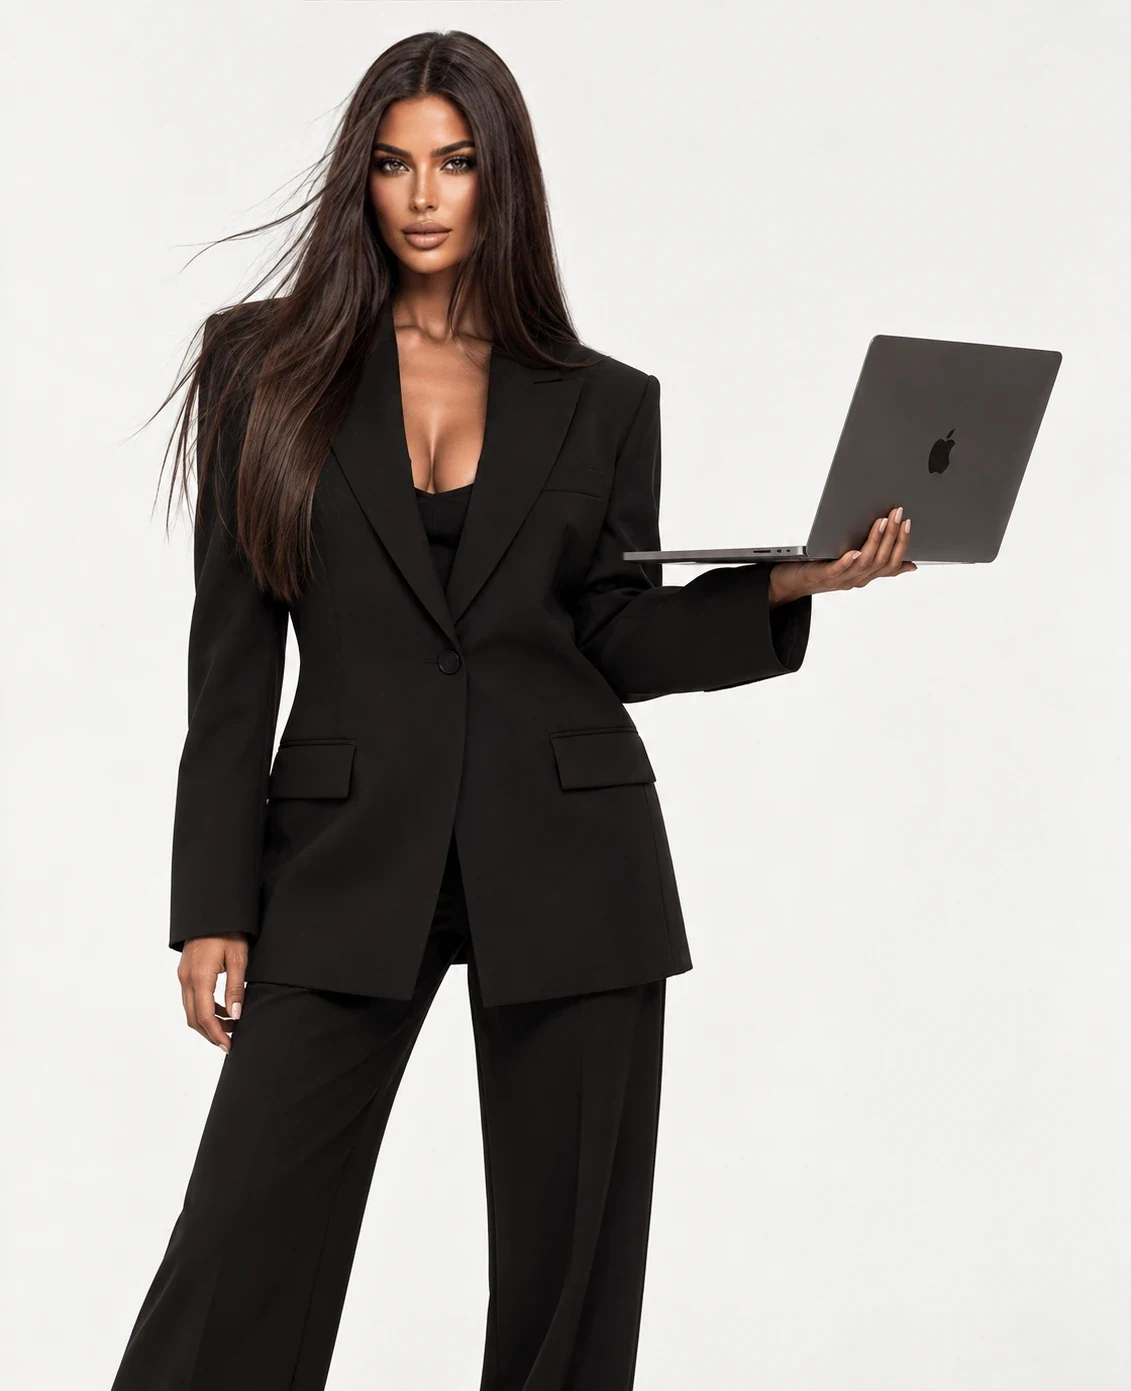
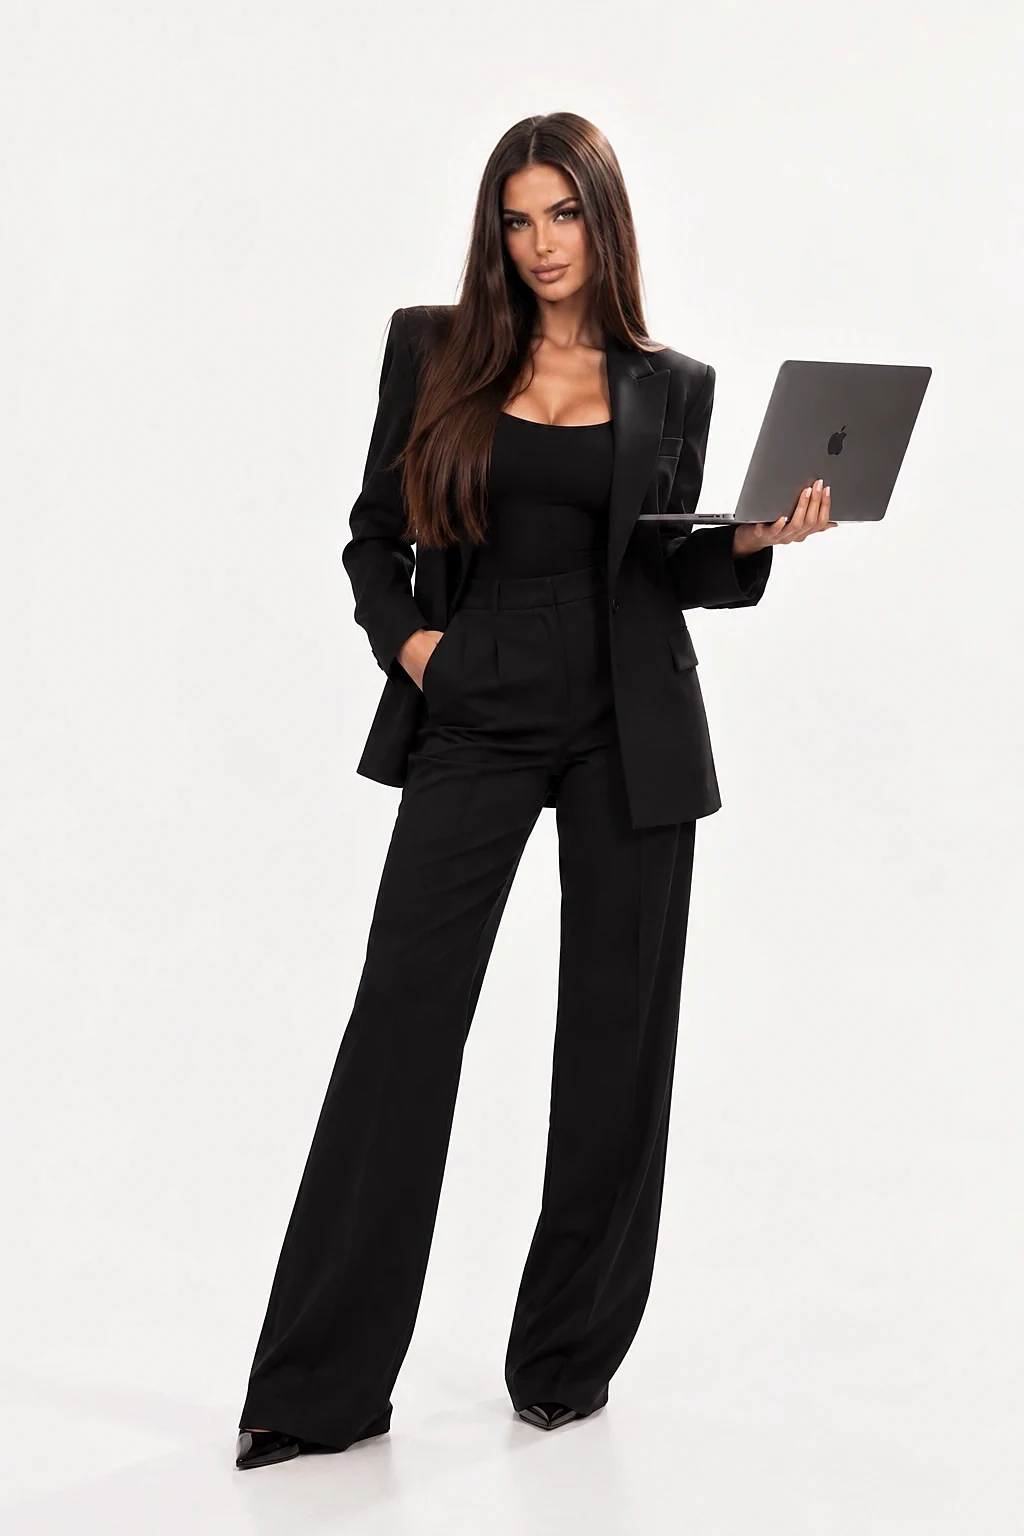
New photos

diff --git a/index.html b/index.html
@@ -93,7 +93,7 @@
   .hero-foot p { margin: 0; max-width: 36ch; font-size: 16px; color: var(--graphite); }
   .hero-foot nav { display: flex; gap: 28px; }
   .media { margin-top: clamp(64px, 8vw, 100px); height: clamp(420px, 78vh, 820px); position: relative; overflow: hidden; background: var(--ink); clip-path: inset(0 var(--inset, 6%) round 4px); will-change: clip-path; }
-  .media img { position: absolute; inset: -8% 0; width: 100%; height: 116%; object-fit: cover; object-position: 50% 22%; transform: translateY(var(--py, 0px)) scale(var(--ps, 1.08)); will-change: transform; }
+  .media img { position: absolute; inset: -8% 0; width: 100%; height: 116%; object-fit: cover; object-position: 50% 6%; transform: translateY(var(--py, 0px)) scale(var(--ps, 1.08)); will-change: transform; }
   .media figcaption { position: absolute; left: var(--gutter); bottom: 20px; color: var(--paper); font-size: 12px; letter-spacing: .06em; text-transform: uppercase; opacity: .8; }
   .facts { display: grid; grid-template-columns: repeat(3, minmax(0, 1fr)); gap: 10px; padding-block: clamp(64px, 8vw, 100px) 0; }
   .fact { border-top: 1px solid var(--line); padding-top: 22px; text-align: center; transition: border-color .9s ease; }
@@ -168,20 +168,21 @@
 
   .about-text .intro p { font-size: 17px; line-height: 1.55; text-align: left; }
   .about-more { padding-block: clamp(64px, 8vw, 120px) clamp(100px, 11vw, 160px); }
-  .chapters { display: grid; grid-template-columns: repeat(2, minmax(0, 1fr)); gap: clamp(48px, 6vw, 88px) clamp(32px, 5vw, 80px); border-top: 1px solid var(--line); padding-top: clamp(40px, 5vw, 64px); }
-  .chapter h3 { margin: 0 0 18px; font-family: var(--display); font-weight: 400; font-size: var(--t-sub); line-height: 1.1; letter-spacing: -.02em; }
-  .chapter p { margin: 0 0 1em; max-width: 58ch; color: #2b2b2b; line-height: 1.6; }
-  .chapter.wide { grid-column: 1 / -1; }
-  .chapter.wide > div, .chapter.wide { columns: 2; column-gap: clamp(32px, 5vw, 80px); }
-  .chapter.wide h3 { column-span: all; }
-  .chapter.wide p { break-inside: avoid; }
+  .zig { display: grid; grid-template-columns: minmax(0, 1fr) minmax(0, 1fr); gap: clamp(32px, 6vw, 96px); align-items: center; padding-block: clamp(48px, 6vw, 88px); border-top: 1px solid var(--line); }
+  .zig.left .zig-photo { order: -1; }
+  .zig-photo { margin: 0; border-radius: 4px; overflow: hidden; background: var(--fog); }
+  .zig-photo img { width: 100%; height: auto; max-height: 86vh; object-fit: cover; object-position: 50% 20%; transition: transform 1.2s cubic-bezier(.2,.8,.2,1); }
+  .zig-photo:hover img { transform: scale(1.02); }
+  .zig-text { display: grid; gap: clamp(32px, 4vw, 52px); }
+  .chapter h3 { margin: 0 0 16px; font-family: var(--display); font-weight: 400; font-size: var(--t-sub); line-height: 1.1; letter-spacing: -.02em; }
+  .chapter p { margin: 0 0 .9em; max-width: 52ch; color: #2A2526; line-height: 1.6; text-align: justify; hyphens: auto; }
+  @media (max-width: 860px) {
+    .zig { grid-template-columns: 1fr; }
+    .zig .zig-photo { order: -1; max-width: 520px; }
+  }
   .closing { margin-top: clamp(72px, 9vw, 128px); padding-top: clamp(40px, 5vw, 64px); border-top: 1px solid var(--line); }
   .closing .disp { font-size: var(--t-h); line-height: 1.02; letter-spacing: -.035em; max-width: 22ch; }
   .closing-sub { margin: clamp(24px, 3vw, 36px) 0 0; font-family: var(--display); font-style: italic; font-size: var(--t-sub); line-height: 1.35; color: var(--graphite); max-width: 40ch; }
-  @media (max-width: 860px) {
-    .chapters { grid-template-columns: 1fr; }
-    .chapter.wide { columns: 1; }
-  }
 
   /* Travel — full-bleed ink */
   .t-top { display: grid; grid-template-columns: minmax(0, 1fr) minmax(0, 1fr) auto; gap: clamp(24px, 4vw, 64px); align-items: end; }
@@ -287,7 +288,7 @@
         <nav aria-label="Quick links"><a class="link" href="#work">See my work ↓</a><a class="link" href="#social">Get in touch</a></nav>
       </div>
     </div>
-    <figure class="media" id="media" style="margin-bottom:0"><img src="img/karina-portrait.webp" alt="Karina Wagner, black and white portrait" fetchpriority="high"><figcaption>Based in Switzerland</figcaption></figure>
+    <figure class="media" id="media" style="margin-bottom:0"><img src="img/hero-bw.webp" alt="Karina Wagner, black and white editorial portrait" fetchpriority="high"><figcaption>Based in Switzerland</figcaption></figure>
     <div class="wrap">
       <div class="facts">
         <div class="fact fade"><strong>4</strong><span>Apps launched</span></div>
@@ -335,12 +336,17 @@
       <div class="vert" aria-hidden="true"><span>Karina Wagner</span><a href="https://www.instagram.com/_karina_wagner_/" target="_blank" rel="noopener" tabindex="-1">@_karina_wagner_</a></div>
     </div>
     <div class="wrap about-more">
-    <div class="chapters">
-        <article class="chapter fade"><h3>Education &amp; Law</h3><p>My academic background is in law. I hold a Bachelor’s degree in General Jurisprudence and a Master’s degree specializing in Public International Law and Private International Law within the framework of international integration.</p><p>My education has shaped the way I approach complex ideas, think critically, and understand the world.</p></article>
-        <article class="chapter fade"><h3>Technology &amp; the Future</h3><p>I’m passionate about technology and fascinated by how rapidly our world is evolving. I feel incredibly lucky to have grown up during such a remarkable period of transformation — from landline telephones and button phones to artificial intelligence, self-driving cars, and technologies that once seemed like science fiction.</p><p>Having witnessed this evolution firsthand, I love exploring new technologies, staying ahead of the curve, and discovering how innovation can reshape the way we live, work, and experience the world.</p><p>For me, curiosity and embracing what’s next are simply part of who I am.</p></article>
-        <article class="chapter fade"><h3>Sport &amp; Wellbeing</h3><p>Sport has been part of my life since childhood. I began artistic gymnastics at five and ballroom dancing at seven, dedicating the next ten years to competitive dance and participating in international competitions. These early experiences shaped my discipline, determination, and appreciation for an active lifestyle.</p><p>Today, fitness is an essential part of my everyday life. Through strength training, mindful nutrition, and a constant desire to improve, I’m passionate about exploring the relationship between health, performance, and well-being.</p><p>I’m particularly fascinated by longevity, neuroscience, and biohacking. I enjoy exploring new approaches to health and performance, including peptides, supplements, and emerging longevity therapies. I’m always curious to learn more about how the human body and brain work, experiment with new approaches, and discover ways to support health, recovery, and healthy aging.</p></article>
-        <article class="chapter fade"><h3>Psychology, Fashion &amp; Culture</h3><p>Psychology, fashion, and human behavior are among my greatest interests. I love exploring the world of psychology through books, from Freud’s collected works to the writings of Oliver Sacks and Norman Doidge.</p><p>I’m especially fascinated by the brain, human consciousness, and the extraordinary complexity of the mind.</p><p>Fashion and beauty are another expression of my creativity and appreciation for aesthetics. Through my Telegram channel, I share my thoughts on fashion, personal style, and the things that inspire me.</p></article>
-        <article class="chapter wide fade"><h3>Travel &amp; Adventure</h3><p>Travel is one of my greatest passions. Having visited more than 40 countries, I’m always drawn to places I’ve never been, cultures I haven’t experienced, and destinations that offer something entirely new.</p><p>My husband and I love exploring the world together, discovering unfamiliar cities, trying new restaurants, and immersing ourselves in different ways of life. I’m happiest when I have something new to look forward to — whether it’s a country, a hidden restaurant, a remote landscape, or an entirely unfamiliar experience.</p><p>One of my personal goals is to visit every country in the world before turning 30.</p><p>Adventure has also taken me beyond traditional travel. I spent nine days trekking to Everest Base Camp, an experience that made reaching the summit of Mount Everest one of my biggest dreams.</p><p>Before that, I have several mountains on my list: Mount Elbrus, Kilimanjaro, and Mont Blanc.</p><p>Another dream is to complete a four-day expedition through Son Doong Cave in Vietnam, the world’s largest known cave.</p><p>For me, travel is about more than seeing new places. It’s about constantly discovering, challenging myself, and experiencing as much of the world as possible.</p></article>
+    <div class="zig right fade">
+      <div class="zig-text"><article class="chapter"><h3>Education &amp; Law</h3><p>My academic background is in law. I hold a Bachelor’s degree in General Jurisprudence and a Master’s degree specializing in Public International Law and Private International Law within the framework of international integration.</p><p>My education has shaped the way I approach complex ideas, think critically, and understand the world.</p></article><article class="chapter"><h3>Technology &amp; the Future</h3><p>I’m passionate about technology and fascinated by how rapidly our world is evolving. I feel incredibly lucky to have grown up during such a remarkable period of transformation — from landline telephones and button phones to artificial intelligence, self-driving cars, and technologies that once seemed like science fiction.</p><p>Having witnessed this evolution firsthand, I love exploring new technologies, staying ahead of the curve, and discovering how innovation can reshape the way we live, work, and experience the world.</p><p>For me, curiosity and embracing what’s next are simply part of who I am.</p></article></div>
+      <figure class="zig-photo"><img src="img/laugh-bw.webp" alt="Karina Wagner laughing, black and white studio portrait" loading="lazy"></figure>
+    </div>
+    <div class="zig left fade">
+      <figure class="zig-photo"><img src="img/window-bw.webp" alt="Karina Wagner, black and white portrait by a window" loading="lazy"></figure>
+      <div class="zig-text"><article class="chapter"><h3>Sport &amp; Wellbeing</h3><p>Sport has been part of my life since childhood. I began artistic gymnastics at five and ballroom dancing at seven, dedicating the next ten years to competitive dance and participating in international competitions. These early experiences shaped my discipline, determination, and appreciation for an active lifestyle.</p><p>Today, fitness is an essential part of my everyday life. Through strength training, mindful nutrition, and a constant desire to improve, I’m passionate about exploring the relationship between health, performance, and well-being.</p><p>I’m particularly fascinated by longevity, neuroscience, and biohacking. I enjoy exploring new approaches to health and performance, including peptides, supplements, and emerging longevity therapies. I’m always curious to learn more about how the human body and brain work, experiment with new approaches, and discover ways to support health, recovery, and healthy aging.</p></article><article class="chapter"><h3>Psychology, Fashion &amp; Culture</h3><p>Psychology, fashion, and human behavior are among my greatest interests. I love exploring the world of psychology through books, from Freud’s collected works to the writings of Oliver Sacks and Norman Doidge.</p><p>I’m especially fascinated by the brain, human consciousness, and the extraordinary complexity of the mind.</p><p>Fashion and beauty are another expression of my creativity and appreciation for aesthetics. Through my Telegram channel, I share my thoughts on fashion, personal style, and the things that inspire me.</p></article></div>
+    </div>
+    <div class="zig right fade">
+      <div class="zig-text"><article class="chapter"><h3>Travel &amp; Adventure</h3><p>Travel is one of my greatest passions. Having visited more than 40 countries, I’m always drawn to places I’ve never been, cultures I haven’t experienced, and destinations that offer something entirely new.</p><p>My husband and I love exploring the world together, discovering unfamiliar cities, trying new restaurants, and immersing ourselves in different ways of life. I’m happiest when I have something new to look forward to — whether it’s a country, a hidden restaurant, a remote landscape, or an entirely unfamiliar experience.</p><p>One of my personal goals is to visit every country in the world before turning 30.</p><p>Adventure has also taken me beyond traditional travel. I spent nine days trekking to Everest Base Camp, an experience that made reaching the summit of Mount Everest one of my biggest dreams.</p><p>Before that, I have several mountains on my list: Mount Elbrus, Kilimanjaro, and Mont Blanc.</p><p>Another dream is to complete a four-day expedition through Son Doong Cave in Vietnam, the world’s largest known cave.</p><p>For me, travel is about more than seeing new places. It’s about constantly discovering, challenging myself, and experiencing as much of the world as possible.</p></article></div>
+      <figure class="zig-photo"><img src="img/beauty-bw.webp" alt="Karina Wagner, black and white beauty portrait" loading="lazy"></figure>
     </div>
     <div class="closing">
       <p class="disp fade">I believe life is an ongoing journey of discovery — a balance between ambition and curiosity, discipline and freedom, personal growth and the simple pleasure of experiencing the world.</p>
